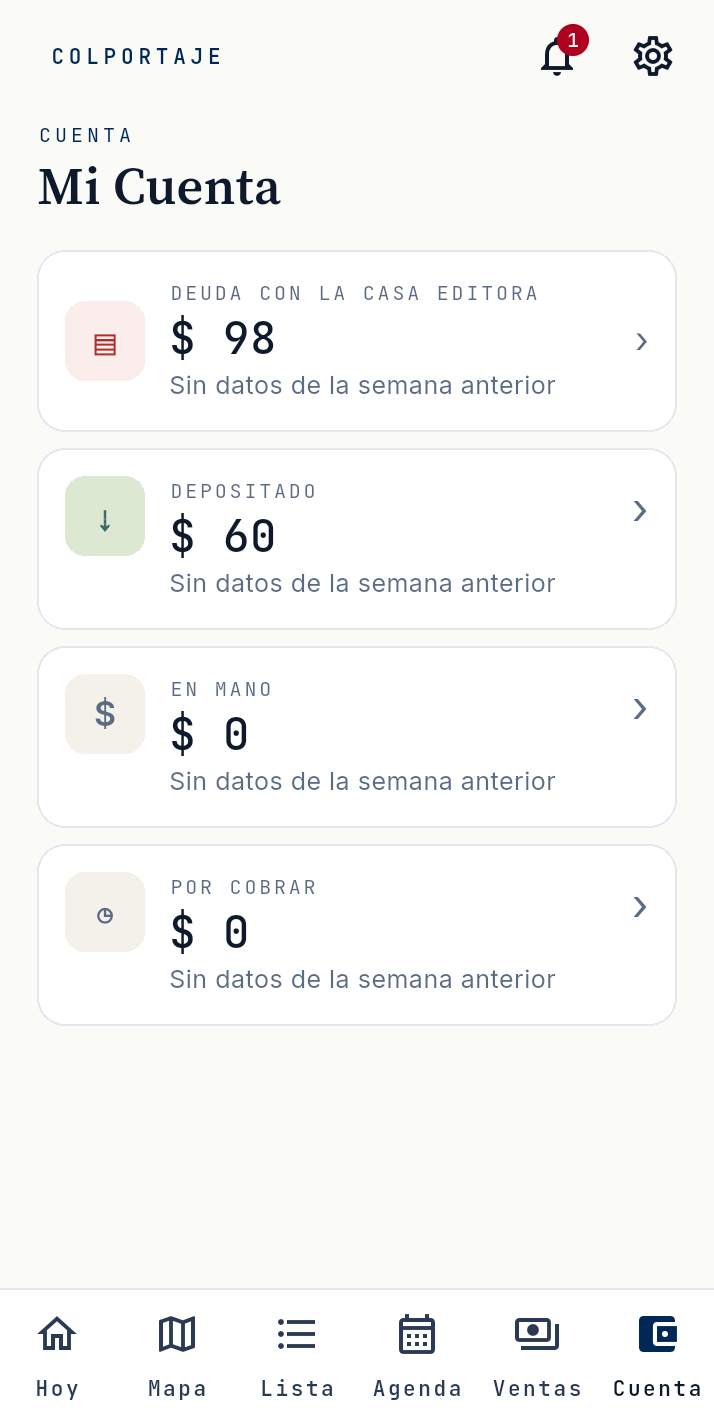
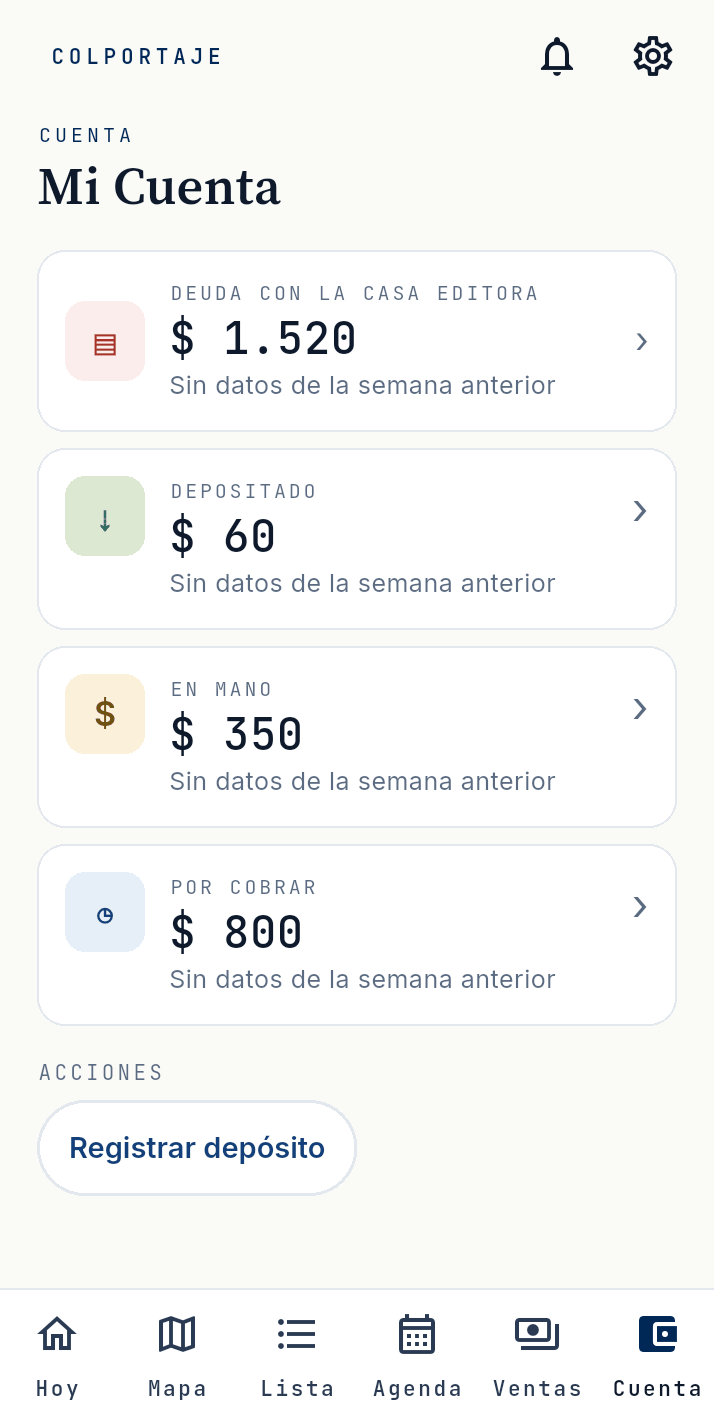
docs(manual): capturas reales del repaso y textos confirmados en la app (Refs docs-organizacion#177) (#4)
Capturas sacadas de la app real (móvil en develop 54f1d182, panel en develop
106d0c7) contra un Supabase local con datos ficticios, para los marcadores
«Captura pendiente» del repaso del 11/11:

- Colportor: pestaña «Ventas», «¿A quién le vendés?» (lista, búsqueda, sin
  resultados y vacía), «Entregar otro día», «Día y hora», «Esa hora ya pasó»,
  «Así quedó la venta» con la entrega agendada, el aviso del mapa, «Entregas
  pendientes», «Marcar entregado» completo y parcial, la cita de entrega en la
  Agenda, la ficha con entrega pendiente y «¿Qué venta?», «Mostrar bajas» y
  «Reactivar», la hoja del depto, el mapa con números de puerta y la unión de
  duplicados rechazada.
- ventas-71-cuenta-tarjetas.png recapturada con montos coherentes.
- Coordinador: «Validar tickets» (cola con un retiro, rechazo sin motivo,
  validado con «Deshacer», sin tickets) y «Ciudades» (zoom máximo, estados,
  borde de zona y zona sin color).

Textos corregidos con lo que muestra la app: botones de «Ventas» y «Esta
sección llega pronto.», «Terminar sin entregar ni cobrar» (la fecha de entrega
se puede saltear con «Volver»), tarjeta «Entrega agendada» también sin saldo,
aviso «Reactivamos a …» sin «Deshacer», columnas y datos de «Validar tickets».
Lo que no se pudo capturar queda como «Captura pendiente» con el motivo.

diff --git a/fuente/coordinador.md b/fuente/coordinador.md
@@ -523,7 +523,10 @@ Lo vas a usar para saber cómo va la ciudad casa por casa.
 
 Las zonas se dibujan con un borde que se distingue bien del fondo del mapa, sea cual sea su color. Una zona a la que todavía no se le asignó color se dibuja en gris. Las casas en estado «Entrega y pago» se ven como un cuadrado con una franja azul clara.
 
-> **Captura pendiente.** «Ciudades» con el mapa acercado al máximo (zoom 18 o 19), con casas de varios estados, el borde de las zonas y la atribución «© OpenStreetMap»; y una zona sin color, en gris.
+<p align="center"><img src="../imagenes/coordinador/panel-141-ciudades-zoom-maximo.png" alt="Mapa de 'Ciudades' acercado al máximo en Cordón, con el botón '+' apagado, casas y la atribución del mapa" width="760">
+<img src="../imagenes/coordinador/panel-142-ciudades-zoom-estados.png" alt="Mapa de 'Ciudades' a nivel de calle en Cordón, con casas de varios estados y el nombre de la zona" width="760">
+<img src="../imagenes/coordinador/panel-143-ciudades-borde-de-zona.png" alt="Mapa de 'Ciudades' acercado sobre el borde de la zona Cordón" width="760">
+<img src="../imagenes/coordinador/panel-144-ciudades-zona-sin-color.png" alt="Mapa de Montevideo con Pocitos en azul y Malvín sin color, en gris; en la lista, Malvín con el punto gris" width="760"></p>
 
 > **Próximamente.** Los números de puerta del fondo del mapa todavía no se ven en el panel: aparecen cuando se actualice el mapa de calles de la ciudad. En el teléfono sí se ven al acercar.
 
@@ -912,17 +915,24 @@ Usala cuando los colportores de tu campaña depositaron el efectivo que cobraron
 
 **Pasos**
 
-1. Entrá a «Validar tickets». Arriba dice, por ejemplo, «Tickets por validar · 4» y «el más antiguo: hace 2 días». La lista junta los depósitos con foto y los retiros de efectivo, del más antiguo al más nuevo, con COLPORTOR, TALONARIO, MONTO, FECHA, ZONA y ESTADO («◔ Por validar»).
-2. Se abre el primero, al costado de la lista: «Ticket de depósito», con «Ticket 1 de 4» y las flechas ‹ ›. Ves la «FOTO DEL TALONARIO», el MONTO, el TALONARIO N.º, el COLPORTOR, la ZONA, la FECHA DEL DEPÓSITO y cuándo lo mandó («ENVIADO hace 3 h»). También ves cuánto efectivo tenía el colportor en mano y cuánto debía antes del depósito, para comparar. Si el depósito fue en el banco, el panel dice «Depósito en banco», sin el nombre del banco.
+1. Entrá a «Validar tickets». Arriba dice, por ejemplo, «Tickets por validar · 4» y «el más antiguo: hace 2 días». La lista junta los depósitos con foto y los retiros de efectivo, del más antiguo al más nuevo, con FECHA, COLPORTOR (con su ciudad), MEDIO («Depósito en banco», «Depósito en oficina», «Retiro por el coordinador»), MONTO y ESTADO («◔ Por validar» o, en un retiro, «◔ Por confirmar»).
+2. Se abre el primero, al costado de la lista: «Ticket de depósito», con «Ticket 1 de 4» y las flechas ‹ ›. Ves la foto del ticket, el MONTO, «PARA QUÉ ES» (por ejemplo «Casa editora»), «DÓNDE», el «N.º DE AUTORIZACIÓN» y la «TARJETA» (si es un cobro con tarjeta), el COLPORTOR, la CIUDAD, la FECHA DEL DEPÓSITO y cuándo lo mandó («ENVIADO hace 3 h»). También ves «EN MANO SEGÚN LA APP», la «DEUDA CON LA CASA EDITORA» y «SI VALIDÁS, QUEDA EN», para comparar; si no cuadran, un aviso lo marca (por ejemplo «Según la app tenía en mano $U 0 y el ticket dice $U 800 (diferencia $U 800)»). Si el depósito fue en el banco, el panel dice «Depósito en banco», sin el nombre del banco.
 3. Mirá la foto. Con «Agrandar» la ves más grande, por ejemplo para leer un talonario borroso. El enlace de la foto vence a los 5 minutos: si se vence, volvé a abrir el ticket para pedirla de nuevo.
-4. Si está bien, tocá «Validar» (o la tecla V). Aparece «✓ Ticket 0457 de Laura Suárez validado.» con «Deshacer», que dura 8 segundos y devuelve el ticket a la cola en su lugar. Pasado ese tiempo, la validación se manda. El panel pasa solo al siguiente ticket.
-5. Si algo no cuadra, tocá «Rechazar» (o la tecla R). El primer toque no rechaza: abre el campo «MOTIVO DEL RECHAZO · OBLIGATORIO» en el mismo lugar, con motivos rápidos («Foto ilegible», «El monto no coincide», «Talonario ya usado») que completan el campo y se pueden editar. Escribí qué tiene que corregir el colportor («Contale al colportor qué tiene que corregir»); el motivo le llega a él. Tocá «Confirmar rechazo». Si lo dejás vacío, dice «Escribí el motivo para rechazar el ticket.» El motivo admite hasta 500 caracteres.
+4. Si está bien, tocá «Validar» (o la tecla V). Aparece «✓ Ticket de Lucía Fernández validado.» con «Deshacer», que dura 8 segundos y devuelve el ticket a la cola en su lugar. Pasado ese tiempo, la validación se manda. El panel pasa solo al siguiente ticket.
+5. Si algo no cuadra, tocá «Rechazar» (o la tecla R). El primer toque no rechaza: abre el campo «MOTIVO DEL RECHAZO · OBLIGATORIO» en el mismo lugar, con motivos rápidos («Foto ilegible», «El monto no coincide», «Talonario ya usado») que completan el campo y se pueden editar. Escribí qué tiene que corregir el colportor («Contale al colportor qué tiene que corregir»); el motivo le llega a él. Tocá «Confirmar rechazo». Si lo dejás vacío, dice «Escribí el motivo para rechazar el ticket.» (en un retiro, «Escribí el motivo para rechazar el retiro.»). El motivo admite hasta 500 caracteres.
 6. Para un **retiro** (el colportor te entregó el efectivo en mano), el panel abre «Retiro por el coordinador», sin foto: dice «SIN FOTO» y «El efectivo se entrega en mano: este retiro no trae comprobante.» Su estado es «Por confirmar» (y pasa a «Confirmado»). Tocá «Confirmar» (o la tecla C) si recibiste ese monto, o «Rechazar» con un motivo: «El monto no coincide», «No recibí el efectivo» o «Está cargado dos veces».
-7. Cuando no quedan más, dice «No quedan tickets por validar» y un botón te lleva de vuelta a «Cuentas».
+7. Cuando no quedan más, el título dice «Tickets por validar · 0», la lista sigue mostrando los que resolviste («✓ Validado», «✓ Confirmado») y al costado dice «No quedan tickets por validar», con el botón «Volver a Cuentas».
 
 Con el teclado: ↑ y ↓ cambian de fila, V valida, R abre el rechazo con el cursor en el motivo, C confirma un retiro y Esc cancela el rechazo.
 
-> **Captura pendiente.** «Validar tickets» con la cola de 4 tickets y el primero abierto al costado (con la foto, el monto y los botones «Rechazar» y «Validar»); el rechazo con el motivo vacío y el aviso «Escribí el motivo para rechazar el ticket.»; el aviso «✓ Ticket … validado.» con «Deshacer»; un retiro abierto (con «SIN FOTO», «Confirmar» y «Rechazar»); y la pantalla «No quedan tickets por validar».
+Las capturas son del panel con la pestaña «Cuentas» habilitada para probar: por eso arriba se ve la franja «Cuentas: datos simulados, salvo Validar tickets.»
+
+<p align="center"><img src="../imagenes/coordinador/panel-136-validar-tickets-cola.png" alt="'Tickets por validar · 5' con la cola (un retiro y cuatro depósitos) y, al costado, el retiro abierto: 'SIN FOTO', '$U 30', 'Rechazar' y 'Confirmar'" width="760">
+<img src="../imagenes/coordinador/panel-137-rechazo-motivo-vacio.png" alt="Rechazo de un retiro con 'MOTIVO DEL RECHAZO · OBLIGATORIO', los motivos rápidos, el campo vacío en rojo y 'Escribí el motivo para rechazar el retiro.'" width="760">
+<img src="../imagenes/coordinador/panel-139-ticket-validado-deshacer.png" alt="Aviso '✓ Ticket de Lucía Fernández validado.' con 'Deshacer', y el siguiente ticket abierto al costado" width="760">
+<img src="../imagenes/coordinador/panel-140-no-quedan-tickets.png" alt="'Tickets por validar · 0' con los tickets validados y el retiro confirmado, y al costado 'No quedan tickets por validar' con 'Volver a Cuentas'" width="760"></p>
+
+> **Captura pendiente.** Un ticket de depósito abierto con su foto (en el entorno de prueba no hay fotos de tickets: el panel muestra en su lugar «La foto de este ticket ya venció…»).
 
 **Qué puede pasar**
 

diff --git a/fuente/problemas-frecuentes.md b/fuente/problemas-frecuentes.md
@@ -268,7 +268,7 @@ Los precios todavía no llegaron a tu teléfono (por ejemplo, la primera vez, an
 Más detalle: [Consultar los precios](./colportor.md#52-consultar-los-precios) y [Registrar una venta](./colportor.md#53-registrar-una-venta) (manual del colportor, capítulo 5)
 
 **Toco la pestaña «Ventas» y no veo un resumen de mis ventas**
-Es lo que muestra hoy esa pestaña: tres botones, «+ Registrar venta», «Entregas pendientes» y «Precios». Todavía no tiene un resumen de tus ventas. Podés vender desde ahí con «+ Registrar venta» o desde la casa, al terminar la entrevista con «Sí, registrar la venta» o, en «Registrar visita», con «Vender». Todavía no están en la app sumar un libro a una venta que sigue abierta, corregir o anular un cobro, sacarle foto al ticket de la tarjeta, hacer pedidos de libros, ver tu stock, el alquiler y tus becas. Hasta entonces, guardá los tickets de papel de la tarjeta y hacé los pedidos por fuera de la app.
+Es lo que muestra hoy esa pestaña: «Esta sección llega pronto.» y tres botones, «+ Registrar venta», «Precios» y «Entregas pendientes». Todavía no tiene un resumen de tus ventas. Podés vender desde ahí con «+ Registrar venta» o desde la casa, al terminar la entrevista con «Sí, registrar la venta» o, en «Registrar visita», con «Vender». Todavía no están en la app sumar un libro a una venta que sigue abierta, corregir o anular un cobro, sacarle foto al ticket de la tarjeta, hacer pedidos de libros, ver tu stock, el alquiler y tus becas. Hasta entonces, guardá los tickets de papel de la tarjeta y hacé los pedidos por fuera de la app.
 
 Más detalle: [La venta en la calle, de punta a punta](./colportor.md#51-la-venta-en-la-calle-de-punta-a-punta) (manual del colportor, capítulo 5)
 
